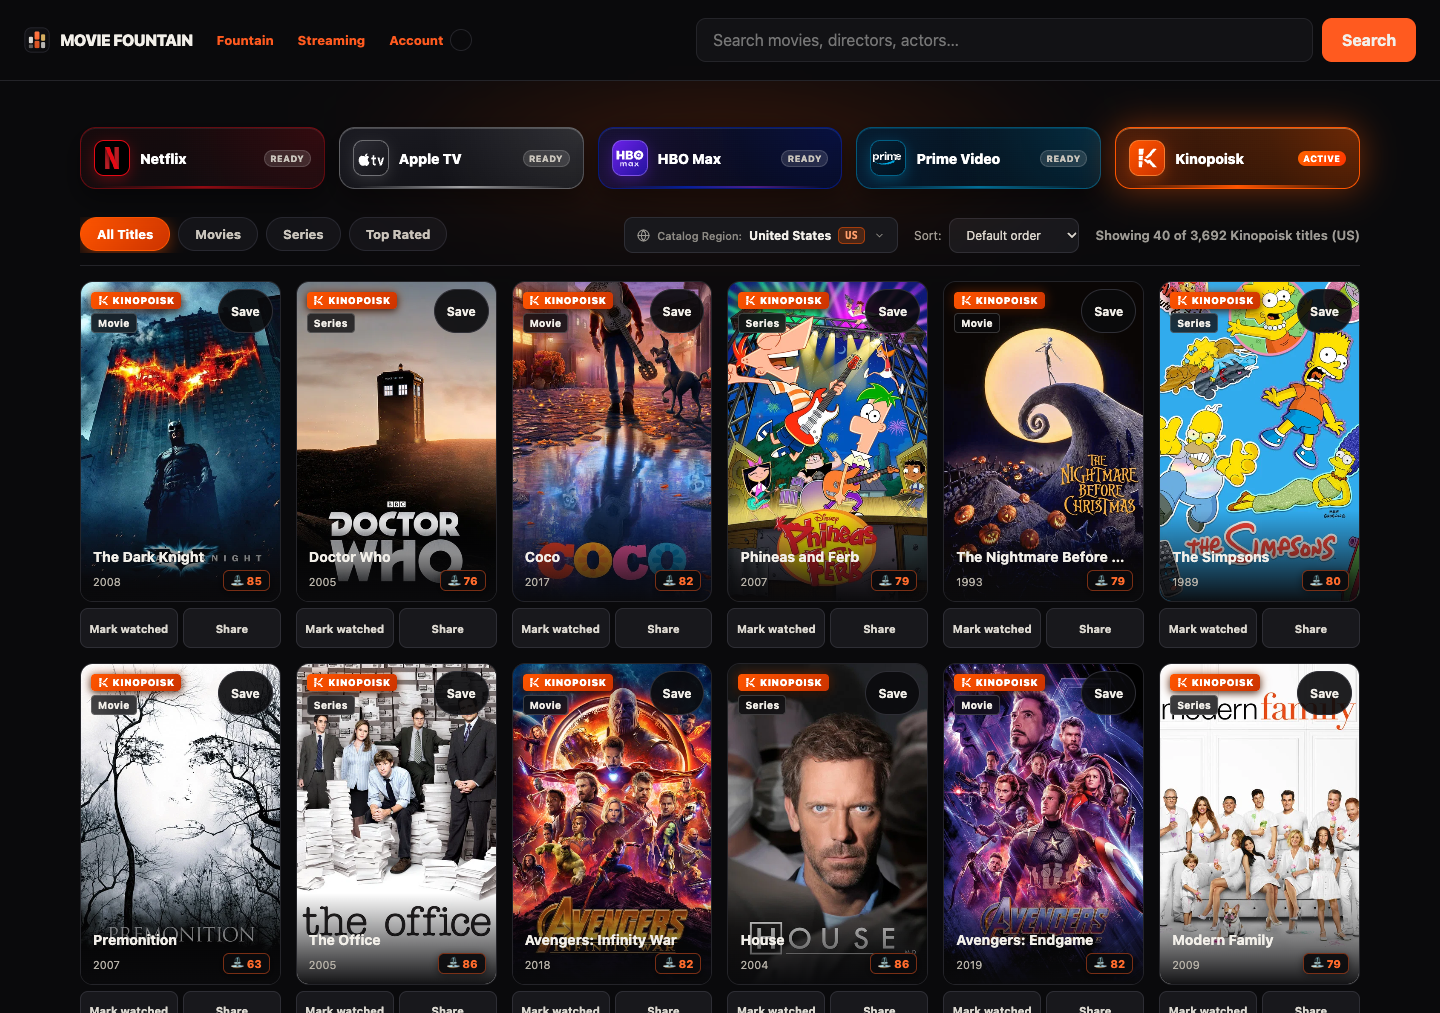
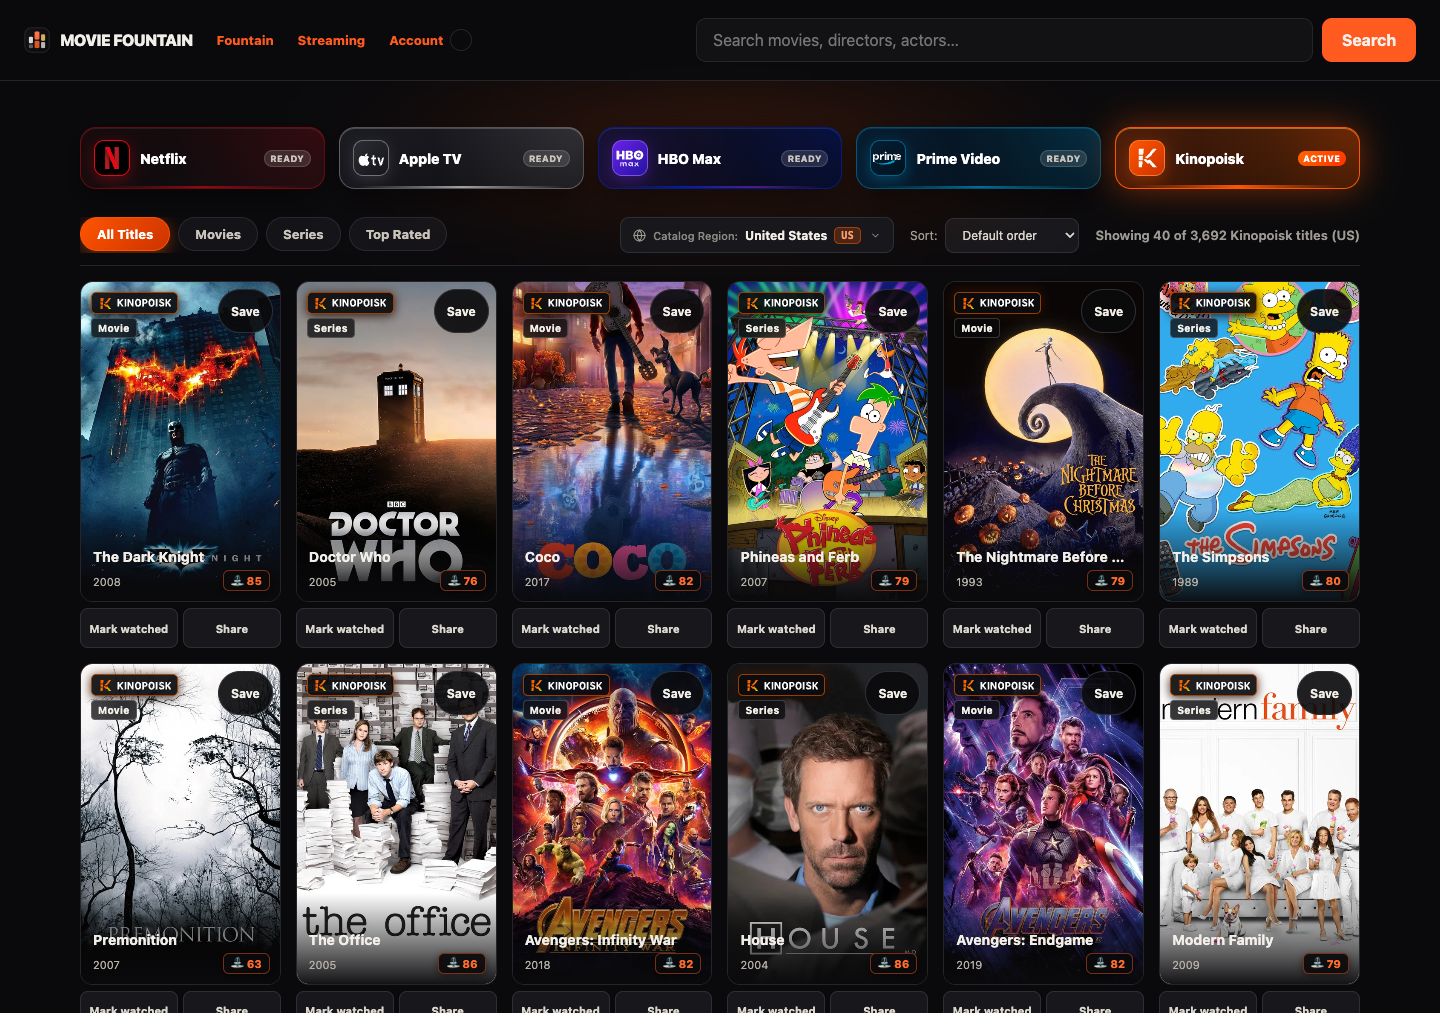
style: upgrade Kinopoisk poster badge with flame gradient K emblem and vector wordmark

diff --git a/app.js b/app.js
@@ -1482,7 +1482,7 @@ function streamingCard(item) {
   let providerChip = `<span class="netflix-chip" aria-label="Netflix"><svg viewBox="0 0 72 21" width="46" height="13" aria-hidden="true"><g fill="#ffffff"><path d="M2 2h3l4.2 10.6V2h2.8v17c-1 .1-2 .2-3 .3L4.8 8.1v11.3c-.9.1-1.9.2-2.8.3V2z"/><path d="M14.5 2h7.6v2.7h-4.7v3.9h4.1v2.7h-4.1v4.4c1.6-.1 3.2-.2 4.8-.2v2.7c-2.6.1-5.1.2-7.7.4V2z"/><path d="M24 2h8.4v2.7h-2.8v13.2c-.9 0-1.9 0-2.8.1V4.7H24V2z"/><path d="M34.4 2h7.4v2.7h-4.5v4h3.9v2.7h-3.9v6.3c-1 0-1.9 0-2.9.1V2z"/><path d="M43.8 2h2.9v13.3c1.5 0 3 .1 4.5.2v2.7c-2.5-.1-5-.1-7.4-.1V2z"/><path d="M53.2 2h2.9v16.5c-1 0-1.9-.1-2.9-.1V2z"/><path d="M58.4 2h3.1l2.3 5.3L66.1 2h3.1l-3.7 7.8 4 9.7c-1.1-.1-2.2-.2-3.2-.3l-2.5-6-2.4 5.7c-1-.1-2-.1-3-.2l3.8-8.3L58.4 2z"/></g></svg></span>`;
   let providerCode = "netflix";
   if (activeProvider === "kinopoisk") {
-    providerChip = `<span class="kp-chip" aria-label="Kinopoisk"><svg viewBox="0 0 24 24" width="11" height="11" aria-hidden="true"><path fill="#ffffff" d="M3 2h5.5l-.8 6.5H3zM3 9.5h4.6l-.3 5H3zM3 15.5h4.2L6.5 22H3zM12.5 9.8l5.8-7.8h4.2l-7.2 8.5zM10 11.2l4.8-4.5 2.8 1.8-5.6 4zM10.2 12.8l5.4 3.8-2.6 2-4.8-4.5zM15.2 13.5l7.3 8.5h-4.2l-5.8-7.2z"/></svg><span>${esc((t("provider_kinopoisk") || "Kinopoisk").toUpperCase())}</span></span>`;
+    providerChip = `<span class="kp-chip" aria-label="Kinopoisk"><svg viewBox="0 0 24 24" width="13" height="13" aria-hidden="true"><defs><linearGradient id="kpG${movieId}" x1="0%" y1="0%" x2="100%" y2="100%"><stop offset="0%" stop-color="#ff5500"/><stop offset="65%" stop-color="#ff7a00"/><stop offset="100%" stop-color="#bbff00"/></linearGradient></defs><g fill="url(#kpG${movieId})"><path d="M3 2h5.5l-.8 6.5H3zM3 9.5h4.6l-.3 5H3zM3 15.5h4.2L6.5 22H3zM12.5 9.8l5.8-7.8h4.2l-7.2 8.5zM10 11.2l4.8-4.5 2.8 1.8-5.6 4zM10.2 12.8l5.4 3.8-2.6 2-4.8-4.5zM15.2 13.5l7.3 8.5h-4.2l-5.8-7.2z"/></g></svg><svg viewBox="0 0 92 16" width="54" height="9.5" aria-hidden="true"><g fill="#ffffff"><path d="M1 1.5h2.7v5.4L8 1.5h3.2L6.6 7.4l4.8 7.1H8.1L4.5 9l-.8 1v4.5H1v-13zM13 1.5h2.7v13H13v-13zM18 1.5h2.6l5 8.1V1.5h2.6v13h-2.5l-5.1-8.3v8.3H18v-13z"/><path fill-rule="evenodd" d="M35.8 1.2c3.2 0 5.3 2.5 5.3 6.8s-2.1 6.8-5.3 6.8-5.3-2.5-5.3-6.8 2.1-6.8 5.3-6.8zm0 2.5c-1.5 0-2.5 1.6-2.5 4.3s1 4.3 2.5 4.3 2.5-1.6 2.5-4.3-1-4.3-2.5-4.3zM43.2 1.5h4.7c2.7 0 4.3 1.6 4.3 4.2s-1.6 4.2-4.3 4.2h-2v4.6h-2.7v-13zm2.7 2.4v3.6h1.8c1.1 0 1.8-.6 1.8-1.8s-.7-1.8-1.8-1.8h-1.8zM58.8 1.2c3.2 0 5.3 2.5 5.3 6.8s-2.1 6.8-5.3 6.8-5.3-2.5-5.3-6.8 2.1-6.8 5.3-6.8zm0 2.5c-1.5 0-2.5 1.6-2.5 4.3s1 4.3 2.5 4.3 2.5-1.6 2.5-4.3-1-4.3-2.5-4.3z"/><path d="M66.2 1.5h2.7v13h-2.7v-13zM71.1 11.4l2.3-1.4c.5 1.3 1.4 2.1 2.7 2.1 1.2 0 2-.6 2-1.4 0-.9-.7-1.3-2.2-1.8l-.9-.3c-2.2-.7-3.4-1.8-3.4-3.7 0-2.2 1.8-3.7 4.4-3.7 2.2 0 3.7 1.1 4.4 2.8l-2.2 1.3c-.5-1.1-1.2-1.6-2.2-1.6-1 0-1.7.5-1.7 1.2 0 .8.6 1.2 2 1.6l.9.3c2.4.8 3.6 1.9 3.6 3.9 0 2.4-1.9 4.1-4.8 4.1-2.5 0-4.3-1.2-4.9-3.4zM82.5 1.5h2.7v5.4l4.3-5.4h3.2L88.1 7.4l4.8 7.1h-3.3L86 9l-.8 1v4.5h-2.7v-13z"/></g></svg></span>`;
     providerCode = "kinopoisk";
   } else if (activeProvider === "prime") {
     providerChip = `<span class="prime-chip" aria-label="Prime Video"><svg viewBox="0 0 62 23" width="38" height="14" aria-hidden="true"><path fill="#ffffff" fill-rule="evenodd" d="M2 4.5h3.2v1.1c.8-.9 1.9-1.4 3.3-1.4 2.8 0 4.8 2.1 4.8 5s-2 5-4.8 5c-1.4 0-2.5-.5-3.3-1.4v4.7H2V4.5zm3.3 4.7c0 1.6 1 2.7 2.4 2.7s2.4-1.1 2.4-2.7-1-2.7-2.4-2.7-2.4 1.1-2.4 2.7zM15.2 4.5h3.2v1.6c.7-1.2 1.8-1.9 3.3-1.9.4 0 .8.1 1.1.2v3c-.4-.1-.8-.1-1.3-.1-1.8 0-3 1-3 3.1V14h-3.3V4.5zm9.2-3.7h3.4v2.6h-3.4V.8zm0 3.7h3.4V14h-3.4V4.5zm5.8 0h3.2v1.3c.7-1 1.8-1.6 3.2-1.6 1.5 0 2.6.6 3.2 1.7.8-1.1 2-1.7 3.5-1.7 2.4 0 4 1.6 4 4.1V14H44V8.9c0-1.4-.7-2.2-1.9-2.2s-2.1.8-2.1 2.2V14h-3.3V8.9c0-1.4-.7-2.2-1.9-2.2s-2.1.8-2.1 2.2V14h-3.3V4.5zm29.4 5.6h-6.8c.2 1.3 1.2 2 2.7 2 1 0 1.9-.3 2.6-.9l1.4 1.8c-1 .8-2.3 1.3-4.1 1.3-3.4 0-5.8-2.1-5.8-5s2.3-5.1 5.3-5.1c3.1 0 4.9 2.1 4.9 4.9 0 .4 0 .7-.2 1zm-6.8-1.8h4c-.1-1.2-.9-2-2-2-1.1 0-1.8.8-2 2z"/><path fill="#ffffff" d="M11.3 16.4c9.7 4.7 24.1 5 34.4-.5l-1.6-1.1c2.6-.2 5.4-.1 7.1.6-.5 1.9-1.4 4.1-2.6 5.6l-1.3-1.4c-10.8 6.2-26.6 5.7-37.2-.7-.7-.4-.1-1.8 1.2-2.5z"/></svg></span>`;

diff --git a/site.css b/site.css
@@ -894,18 +894,15 @@ html[data-theme="current"] [data-active-provider="kinopoisk"] button.streaming-t
 }
 
 .kp-chip {
-  padding: 3px 6.5px;
-  border-radius: 4px;
-  background: linear-gradient(135deg, #ff5500 0%, #cc3300 100%);
-  color: #ffffff;
-  font-size: 9.5px;
-  font-weight: 900;
-  letter-spacing: .05em;
-  box-shadow: 0 2px 8px rgba(0, 0, 0, 0.7), 0 0 10px rgba(255, 85, 0, 0.45);
+  padding: 3.5px 6.5px;
+  border-radius: 5px;
+  background: rgba(12, 12, 14, 0.92);
+  border: 1px solid rgba(255, 102, 0, 0.55);
+  box-shadow: 0 2px 10px rgba(0, 0, 0, 0.75), 0 0 10px rgba(255, 85, 0, 0.25);
   display: inline-flex;
   align-items: center;
   justify-content: center;
-  gap: 4px;
+  gap: 5px;
 }
 
 .media-type-chip {

diff --git a/index.html b/index.html
@@ -44,7 +44,7 @@
       Movie Fountain — Discover Movies, Letterboxd Top 500 & Multi-Source
       Ratings
     </title>
-    <link rel="stylesheet" href="/site.css?v=fountain-ratings-62" />
+    <link rel="stylesheet" href="/site.css?v=fountain-ratings-63" />
     <script type="application/ld+json">
       {
         "@context": "https://schema.org",
@@ -125,7 +125,7 @@
         >About &amp; source</a
       >
     </footer>
-    <script src="/features.js?v=fountain-ratings-62" defer></script>
-    <script src="/app.js?v=fountain-ratings-62" defer></script>
+    <script src="/features.js?v=fountain-ratings-63" defer></script>
+    <script src="/app.js?v=fountain-ratings-63" defer></script>
   </body>
 </html>
